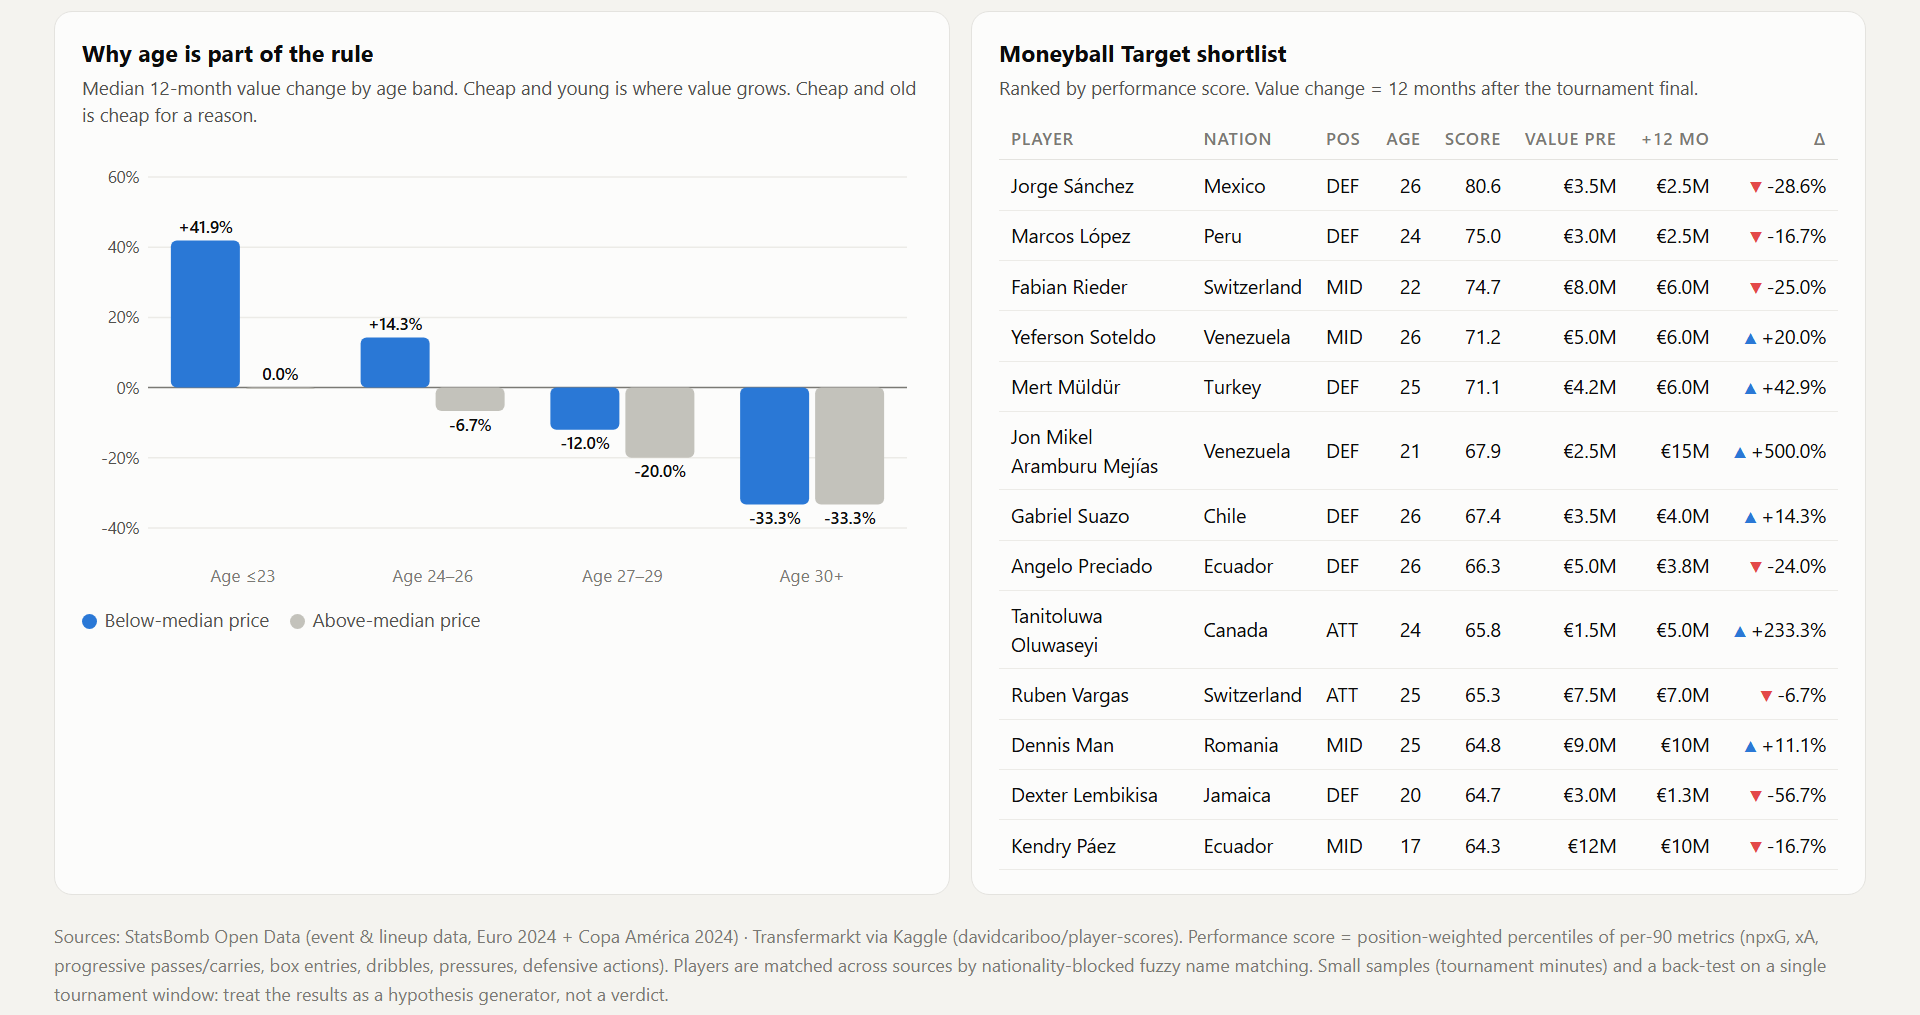
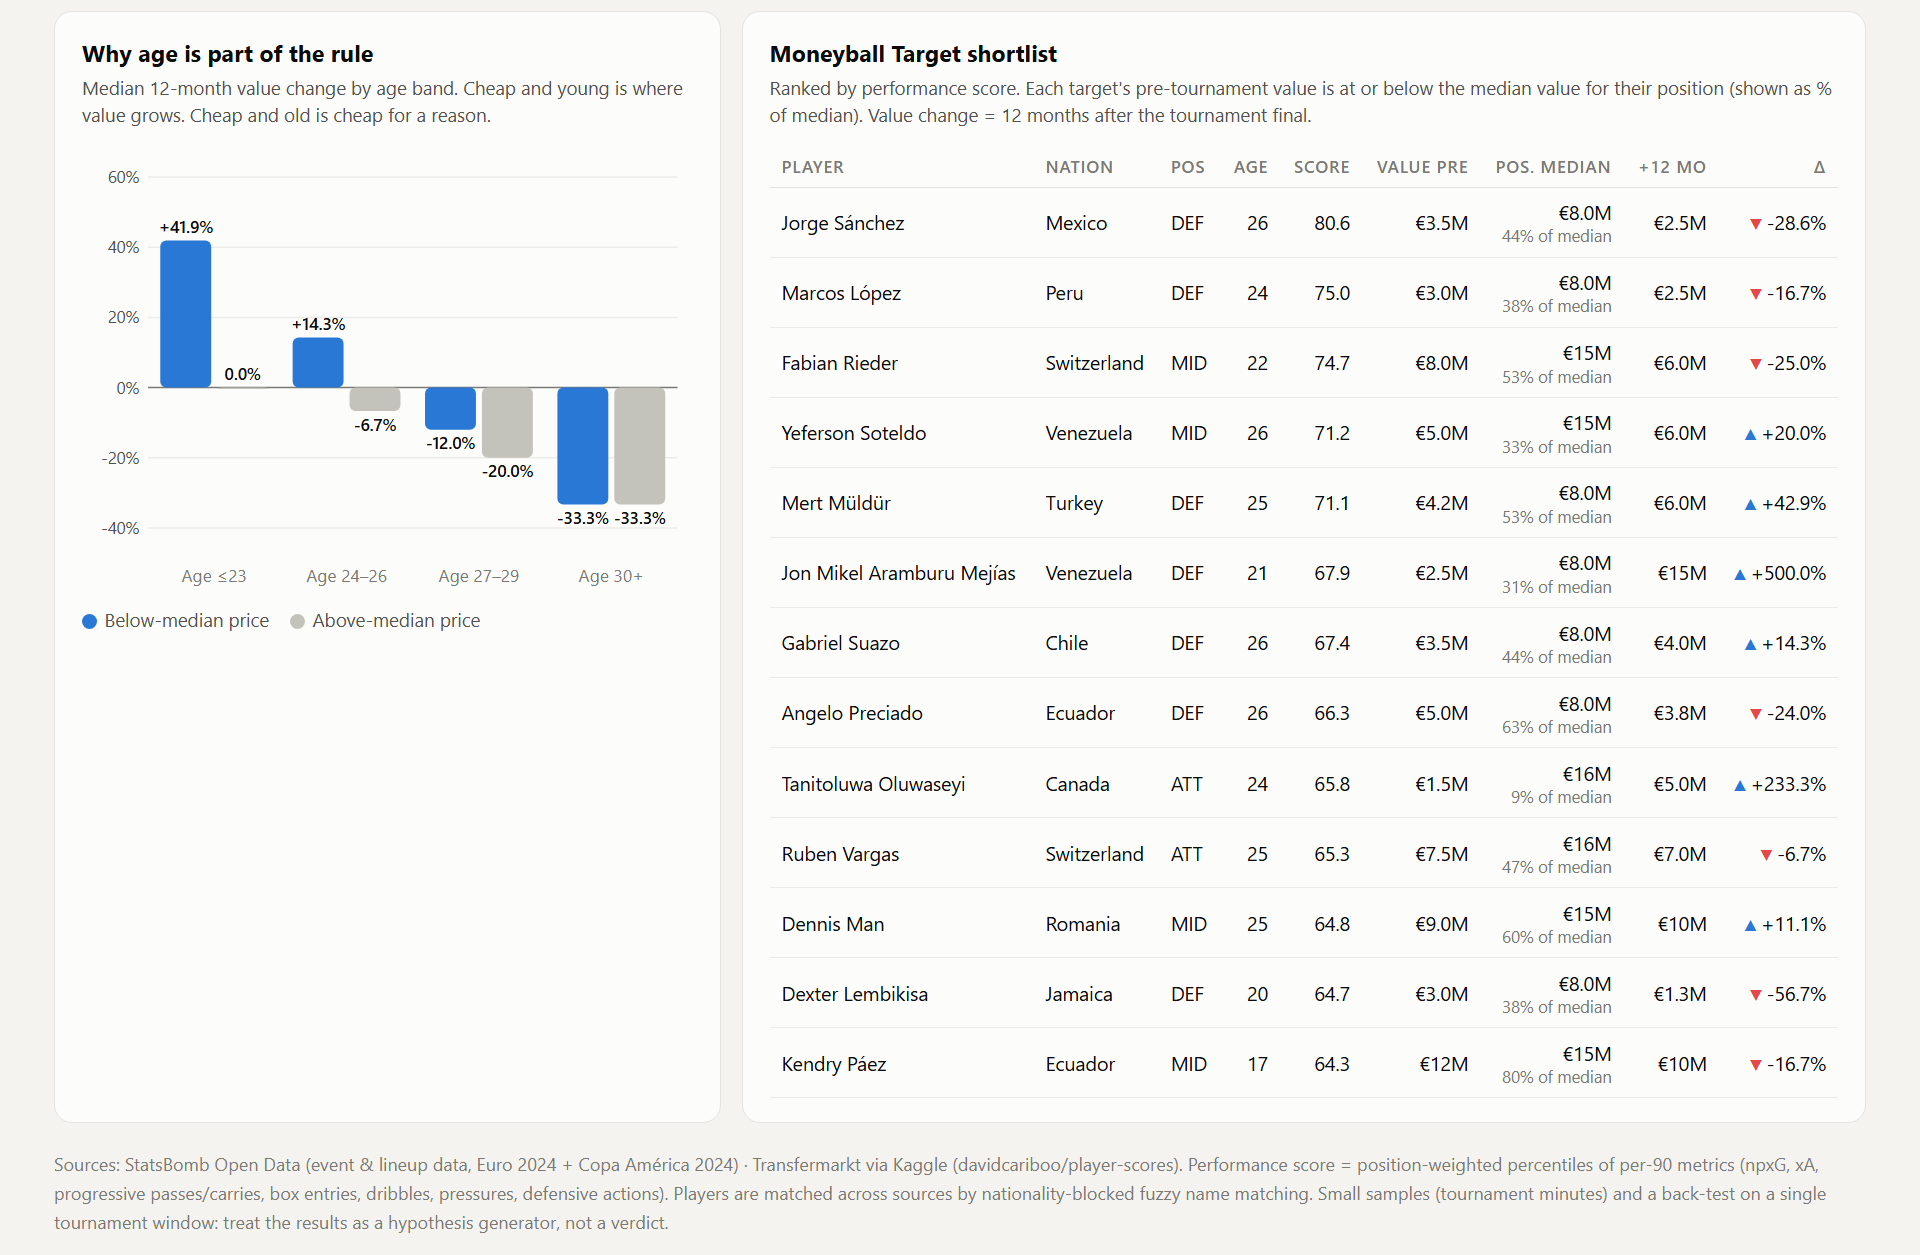
Adding median column to the final dashboard

diff --git a/Sports/aws-football-analytics-moneyball-pyspark-pipeline/dashboard/moneyball_dashboard.html b/Sports/aws-football-analytics-moneyball-pyspark-pipeline/dashboard/moneyball_dashboard.html
@@ -43,7 +43,7 @@
   .kpi .value { font-size: 28px; font-weight: 650; margin-top: 2px; font-variant-numeric: tabular-nums; }
   .kpi .sub { color: var(--text-muted); font-size: 12px; }
   .grid { display: grid; grid-template-columns: 1.65fr 1fr; gap: 14px; }
-  .grid2 { display: grid; grid-template-columns: 1fr 1fr; gap: 14px; margin-top: 14px; }
+  .grid2 { display: grid; grid-template-columns: 0.8fr 1.35fr; gap: 14px; margin-top: 14px; }
   .card { padding: 16px 18px; }
   .card h2 { font-size: 15.5px; margin: 0; }
   .card .desc { color: var(--text-secondary); font-size: 12.5px; margin: 3px 0 10px; }
@@ -67,6 +67,7 @@
        letter-spacing: .04em; border-bottom: 1px solid var(--border); padding: 6px 8px; }
   td { padding: 7px 8px; border-bottom: 1px solid var(--grid); }
   td.num, th.num { text-align: right; white-space: nowrap; }
+  td .sub { color: var(--text-muted); font-size: 11px; line-height: 1.2; }
   .delta-up { color: var(--text-primary); } .delta-up::before { content: "▲ "; color: var(--pos); font-size: 10px; }
   .delta-down { color: var(--text-primary); } .delta-down::before { content: "▼ "; color: var(--neg); font-size: 10px; }
   .note { color: var(--text-muted); font-size: 12px; margin-top: 18px; line-height: 1.6; }
@@ -113,7 +114,7 @@
     </div>
     <div class="card">
       <h2>Moneyball Target shortlist</h2>
-      <div class="desc">Ranked by performance score. Value change = 12 months after the tournament final.</div>
+      <div class="desc">Ranked by performance score. Each target's pre-tournament value is at or below the median value for their position (shown as % of median). Value change = 12 months after the tournament final.</div>
       <div class="scroll"><table id="shortlist"></table></div>
     </div>
   </section>
@@ -297,10 +298,12 @@ document.getElementById("backtest-table").innerHTML =
 (function shortlist() {
   const rows = DATA.players.filter(p => p.segment === "Moneyball Target").sort((a, b) => b.performance_score - a.performance_score);
   const t = document.getElementById("shortlist");
-  t.innerHTML = `<thead><tr><th>Player</th><th>Nation</th><th>Pos</th><th class="num">Age</th><th class="num">Score</th><th class="num">Value pre</th><th class="num">+12 mo</th><th class="num">Δ</th></tr></thead><tbody>` +
+  t.innerHTML = `<thead><tr><th>Player</th><th>Nation</th><th>Pos</th><th class="num">Age</th><th class="num">Score</th><th class="num">Value pre</th><th class="num">Pos. median</th><th class="num">+12 mo</th><th class="num">Δ</th></tr></thead><tbody>` +
     rows.map(p => `<tr><td>${p.player_nickname || p.player_name}</td><td>${p.national_team}</td><td>${p.position_group}</td>
       <td class="num">${p.age_at_tournament ?? "–"}</td><td class="num">${p.performance_score.toFixed(1)}</td>
-      <td class="num">${fmtEur(p.value_pre_tournament_eur)}</td><td class="num">${fmtEur(p.value_12m_after_eur)}</td>
+      <td class="num">${fmtEur(p.value_pre_tournament_eur)}</td>
+      <td class="num">${fmtEur(p.position_median_value_eur)}<div class="sub">${p.position_median_value_eur ? Math.round(p.value_pre_tournament_eur / p.position_median_value_eur * 100) + "% of median" : ""}</div></td>
+      <td class="num">${fmtEur(p.value_12m_after_eur)}</td>
       <td class="num ${p.value_change_12m_pct > 0 ? "delta-up" : p.value_change_12m_pct < 0 ? "delta-down" : ""}">${fmtPct(p.value_change_12m_pct)}</td></tr>`).join("") + "</tbody>";
 })();
 

diff --git a/Sports/aws-football-analytics-moneyball-pyspark-pipeline/dashboard/template.html b/Sports/aws-football-analytics-moneyball-pyspark-pipeline/dashboard/template.html
@@ -43,7 +43,7 @@
   .kpi .value { font-size: 28px; font-weight: 650; margin-top: 2px; font-variant-numeric: tabular-nums; }
   .kpi .sub { color: var(--text-muted); font-size: 12px; }
   .grid { display: grid; grid-template-columns: 1.65fr 1fr; gap: 14px; }
-  .grid2 { display: grid; grid-template-columns: 1fr 1fr; gap: 14px; margin-top: 14px; }
+  .grid2 { display: grid; grid-template-columns: 0.8fr 1.35fr; gap: 14px; margin-top: 14px; }
   .card { padding: 16px 18px; }
   .card h2 { font-size: 15.5px; margin: 0; }
   .card .desc { color: var(--text-secondary); font-size: 12.5px; margin: 3px 0 10px; }
@@ -67,6 +67,7 @@
        letter-spacing: .04em; border-bottom: 1px solid var(--border); padding: 6px 8px; }
   td { padding: 7px 8px; border-bottom: 1px solid var(--grid); }
   td.num, th.num { text-align: right; white-space: nowrap; }
+  td .sub { color: var(--text-muted); font-size: 11px; line-height: 1.2; }
   .delta-up { color: var(--text-primary); } .delta-up::before { content: "▲ "; color: var(--pos); font-size: 10px; }
   .delta-down { color: var(--text-primary); } .delta-down::before { content: "▼ "; color: var(--neg); font-size: 10px; }
   .note { color: var(--text-muted); font-size: 12px; margin-top: 18px; line-height: 1.6; }
@@ -113,7 +114,7 @@
     </div>
     <div class="card">
       <h2>Moneyball Target shortlist</h2>
-      <div class="desc">Ranked by performance score. Value change = 12 months after the tournament final.</div>
+      <div class="desc">Ranked by performance score. Each target's pre-tournament value is at or below the median value for their position (shown as % of median). Value change = 12 months after the tournament final.</div>
       <div class="scroll"><table id="shortlist"></table></div>
     </div>
   </section>
@@ -297,10 +298,12 @@ document.getElementById("backtest-table").innerHTML =
 (function shortlist() {
   const rows = DATA.players.filter(p => p.segment === "Moneyball Target").sort((a, b) => b.performance_score - a.performance_score);
   const t = document.getElementById("shortlist");
-  t.innerHTML = `<thead><tr><th>Player</th><th>Nation</th><th>Pos</th><th class="num">Age</th><th class="num">Score</th><th class="num">Value pre</th><th class="num">+12 mo</th><th class="num">Δ</th></tr></thead><tbody>` +
+  t.innerHTML = `<thead><tr><th>Player</th><th>Nation</th><th>Pos</th><th class="num">Age</th><th class="num">Score</th><th class="num">Value pre</th><th class="num">Pos. median</th><th class="num">+12 mo</th><th class="num">Δ</th></tr></thead><tbody>` +
     rows.map(p => `<tr><td>${p.player_nickname || p.player_name}</td><td>${p.national_team}</td><td>${p.position_group}</td>
       <td class="num">${p.age_at_tournament ?? "–"}</td><td class="num">${p.performance_score.toFixed(1)}</td>
-      <td class="num">${fmtEur(p.value_pre_tournament_eur)}</td><td class="num">${fmtEur(p.value_12m_after_eur)}</td>
+      <td class="num">${fmtEur(p.value_pre_tournament_eur)}</td>
+      <td class="num">${fmtEur(p.position_median_value_eur)}<div class="sub">${p.position_median_value_eur ? Math.round(p.value_pre_tournament_eur / p.position_median_value_eur * 100) + "% of median" : ""}</div></td>
+      <td class="num">${fmtEur(p.value_12m_after_eur)}</td>
       <td class="num ${p.value_change_12m_pct > 0 ? "delta-up" : p.value_change_12m_pct < 0 ? "delta-down" : ""}">${fmtPct(p.value_change_12m_pct)}</td></tr>`).join("") + "</tbody>";
 })();
 
